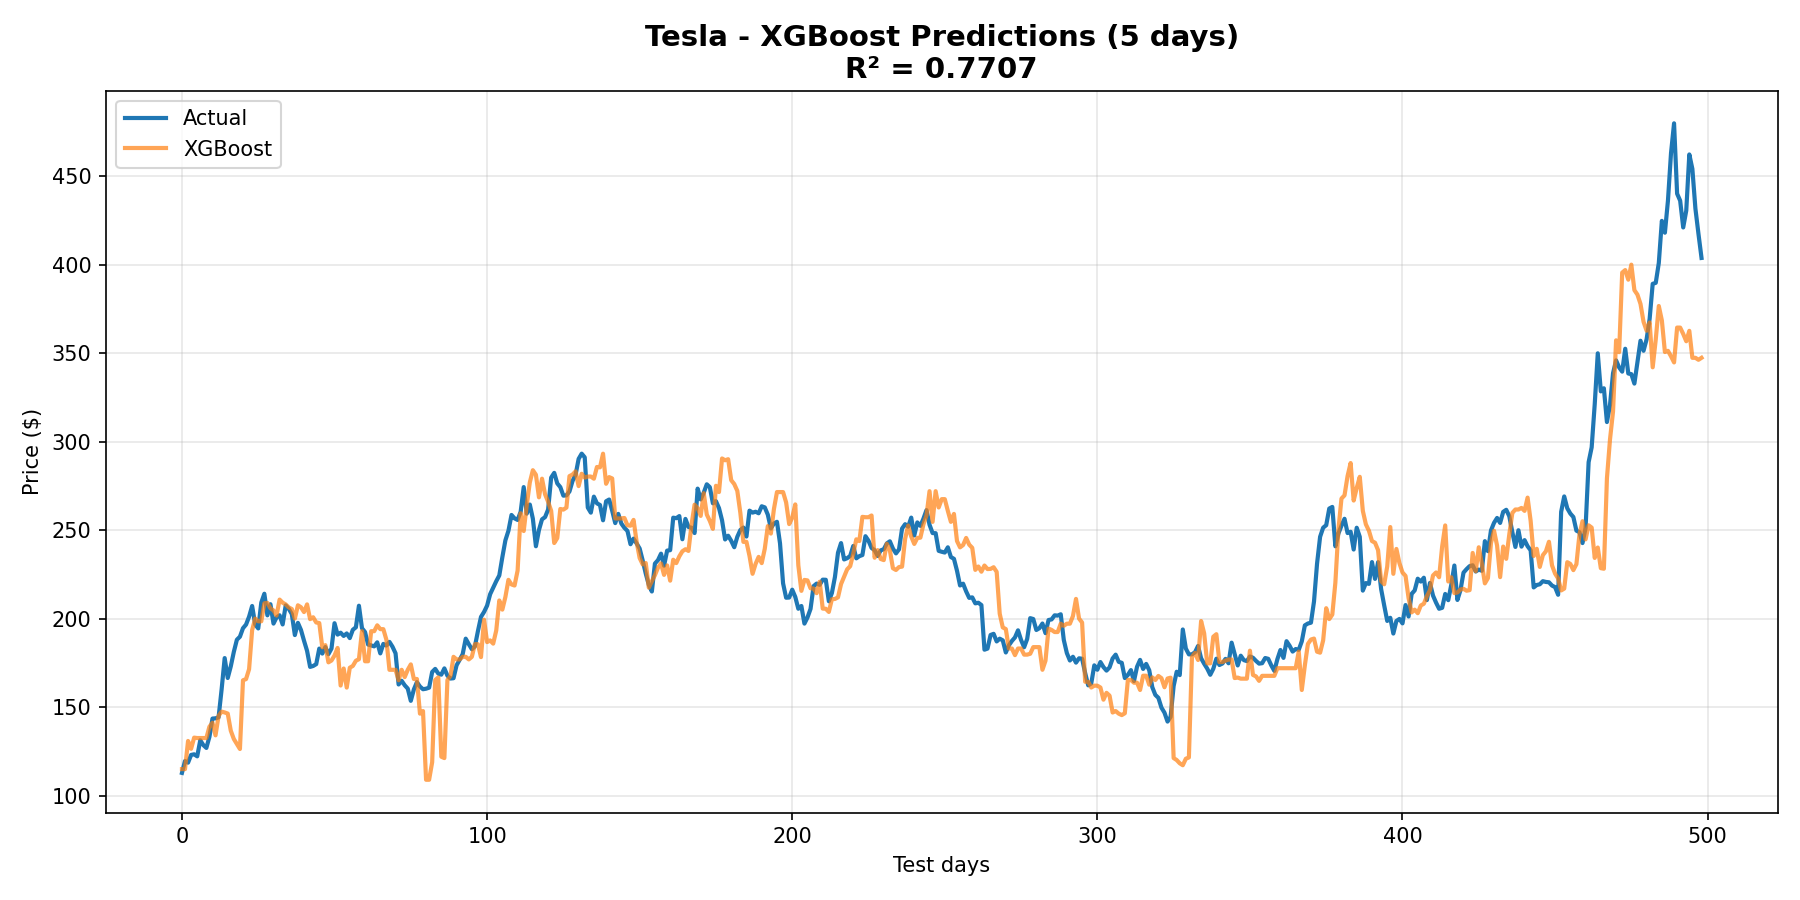
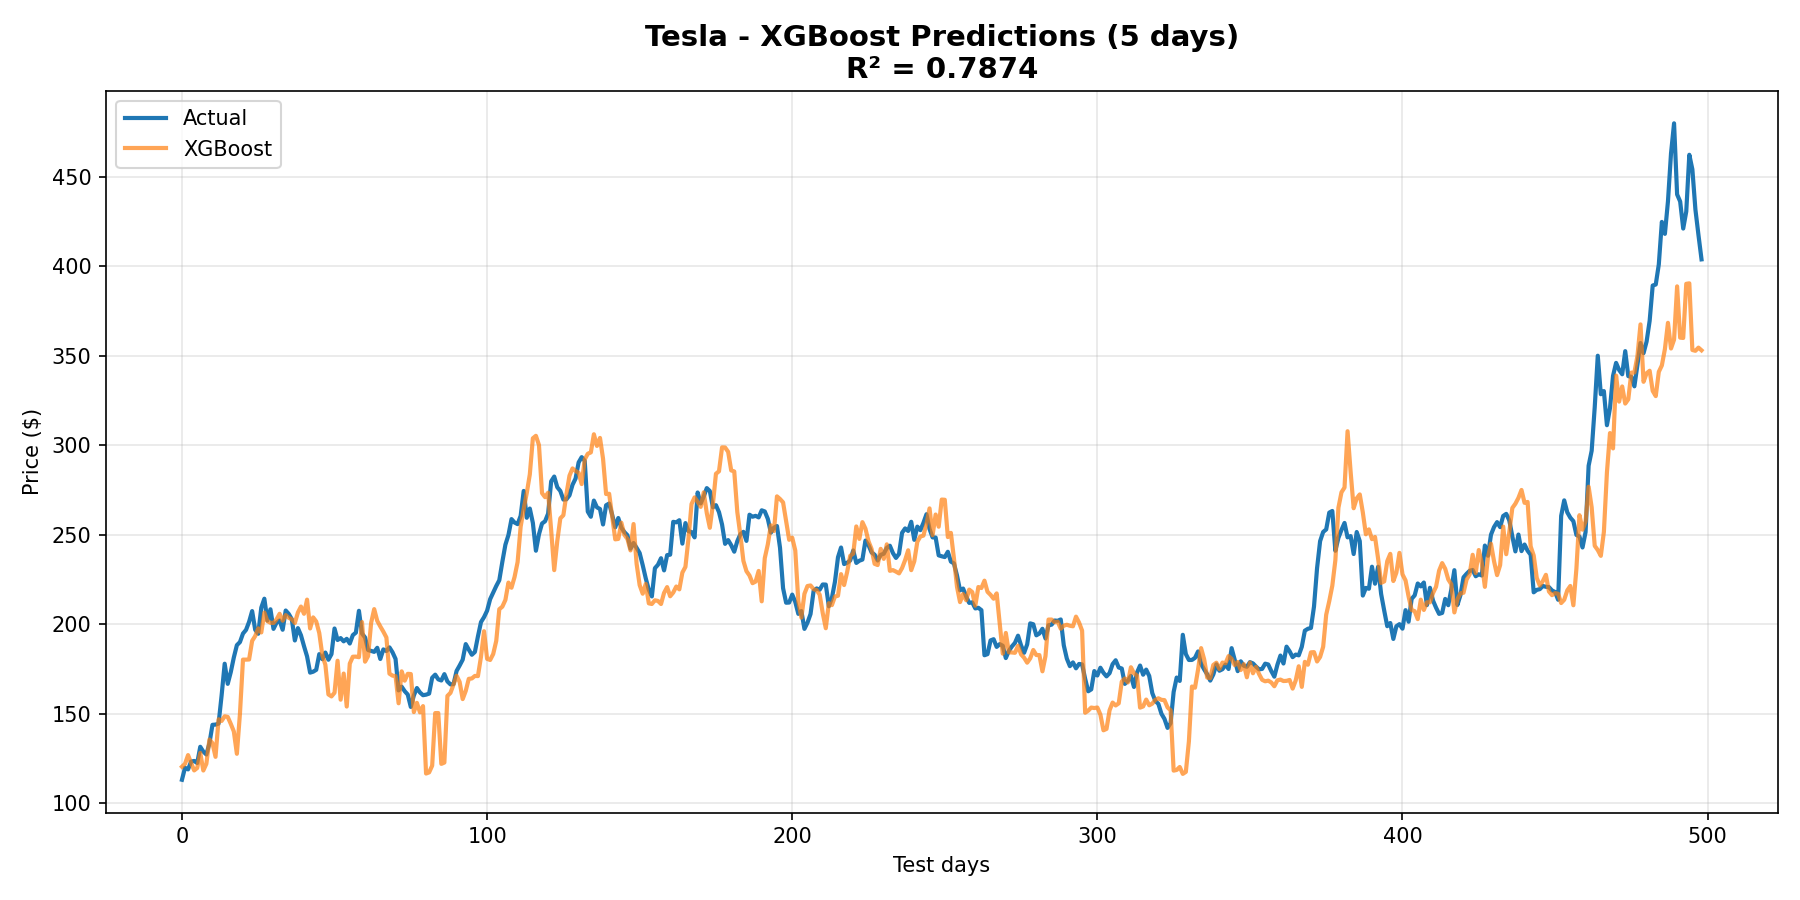
Add of features for XGB
RSI (Relative Strength Index)
Rate of Change (RoC)
Volume features (pour actions seulement, pas forex)

R^2+=0.0167 with theses improvements

diff --git a/xgboost_simple.py b/xgboost_simple.py
@@ -17,18 +17,51 @@ def run_xgboost(ticker="TSLA", name="Tesla", prediction_days=5, verbose=True):
     # Download data
     df = yf.download(ticker, start="2015-01-01", end="2025-01-01", progress=False)
     
+    # Flatten MultiIndex columns if present
+    if isinstance(df.columns, pd.MultiIndex):
+        df.columns = df.columns.get_level_values(0)
+    
     # Create features
+    # Moving averages
     df['MA_5'] = df['Close'].rolling(5).mean()
     df['MA_20'] = df['Close'].rolling(20).mean()
+    
+    # Price lags (historical prices)
     df['Lag_1'] = df['Close'].shift(1)
     df['Lag_2'] = df['Close'].shift(2)
     df['Lag_3'] = df['Close'].shift(3)
+    
+    # Volatility
     df['Volatility'] = df['Close'].pct_change().rolling(20).std()
+    
+    # RSI (Relative Strength Index)
+    delta = df['Close'].diff()
+    gain = (delta.where(delta > 0, 0)).rolling(window=14).mean()
+    loss = (-delta.where(delta < 0, 0)).rolling(window=14).mean()
+    rs = gain / loss
+    df['RSI'] = 100 - (100 / (1 + rs))
+    
+    # Rate of Change (momentum)
+    df['RoC_5'] = df['Close'].pct_change(periods=5) * 100
+    df['RoC_10'] = df['Close'].pct_change(periods=10) * 100
+    
+    # Volume features (only for stocks, not forex)
+    if ticker != "EURUSD=X":
+        df['Volume_MA'] = df['Volume'].rolling(5).mean()
+        df['Volume_Ratio'] = df['Volume'] / df['Volume_MA']
+    
+    # Target variable (price to predict)
     df['Target'] = df['Close'].shift(-prediction_days)
     df = df.dropna()
     
     # Train/test split (80/20)
-    features = ['MA_5', 'MA_20', 'Lag_1', 'Lag_2', 'Lag_3', 'Volatility']
+    features = ['MA_5', 'MA_20', 'Lag_1', 'Lag_2', 'Lag_3', 'Volatility',
+                'RSI', 'RoC_5', 'RoC_10']
+    
+    # Add volume features only for stocks (not forex)
+    if ticker != "EURUSD=X":
+        features.extend(['Volume_MA', 'Volume_Ratio'])
+    
     X = df[features]
     y = df['Target']
     
